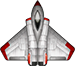
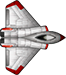
cleaning up

diff --git a/Program-4/js/Game.js b/Program-4/js/Game.js
@@ -13,9 +13,10 @@ SpaceHipster.Game.prototype = {
 
     //create player
     this.player = this.game.add.sprite(this.game.world.centerX, this.game.world.centerY, 'playership');
-    this.player.scale.setTo(2);
-    this.player.animations.add('fly', [0, 1, 2, 3], 5, true);
-    this.player.animations.play('fly');
+    this.player.scale.setTo(0.5);
+	this.player.anchor.setTo(0.5, 0.5);
+    // this.player.animations.add('fly', [0, 1, 2, 3], 5, true);
+    // this.player.animations.play('fly');
 
     //player initial score of zero
     this.playerScore = 0;
@@ -44,11 +45,16 @@ SpaceHipster.Game.prototype = {
     if(this.game.input.activePointer.justPressed()) {
       
       //move on the direction of the input
+	  this.player.rotation = this.game.physics.arcade.angleToPointer(this.player);
       this.game.physics.arcade.moveToPointer(this.player, this.playerSpeed);
     }
 
     //collision between player and asteroids
     this.game.physics.arcade.collide(this.player, this.asteroids, this.hitAsteroid, null, this);
+	this.game.physics.arcade.collide(this.asteroids);
+	this.asteroids.setAll('body.bounce.x', 1);
+	this.asteroids.setAll('body.bounce.y', 1);
+	
 
     //overlapping between player and collectables
     this.game.physics.arcade.overlap(this.player, this.collectables, this.collect, null, this);
@@ -79,7 +85,7 @@ SpaceHipster.Game.prototype = {
     this.asteroids.enableBody = true;
 
     //phaser's random number generator
-    var numAsteroids = this.game.rnd.integerInRange(150, 200)
+    var numAsteroids = this.game.rnd.integerInRange(10, 20)
     var asteriod;
 
     for (var i = 0; i < numAsteroids; i++) {

diff --git a/Program-4/js/Preload.js b/Program-4/js/Preload.js
@@ -16,8 +16,8 @@ SpaceHipster.Preload.prototype = {
 
   	//load game assets
   	this.load.image('space', 'assets/images/space.png');
-  	this.load.image('rock', 'assets/images/rock.png');
-    this.load.spritesheet('playership', 'assets/images/player.png', 12, 12);
+  	this.load.image('rock', 'assets/images/rock2.png');
+    this.load.image('playership', 'assets/images/spaceShip.png');
     this.load.spritesheet('power', 'assets/images/power.png', 12, 12);
   	this.load.image('playerParticle', 'assets/images/player-particle.png');
     this.load.audio('collect', 'assets/audio/collect.ogg');
